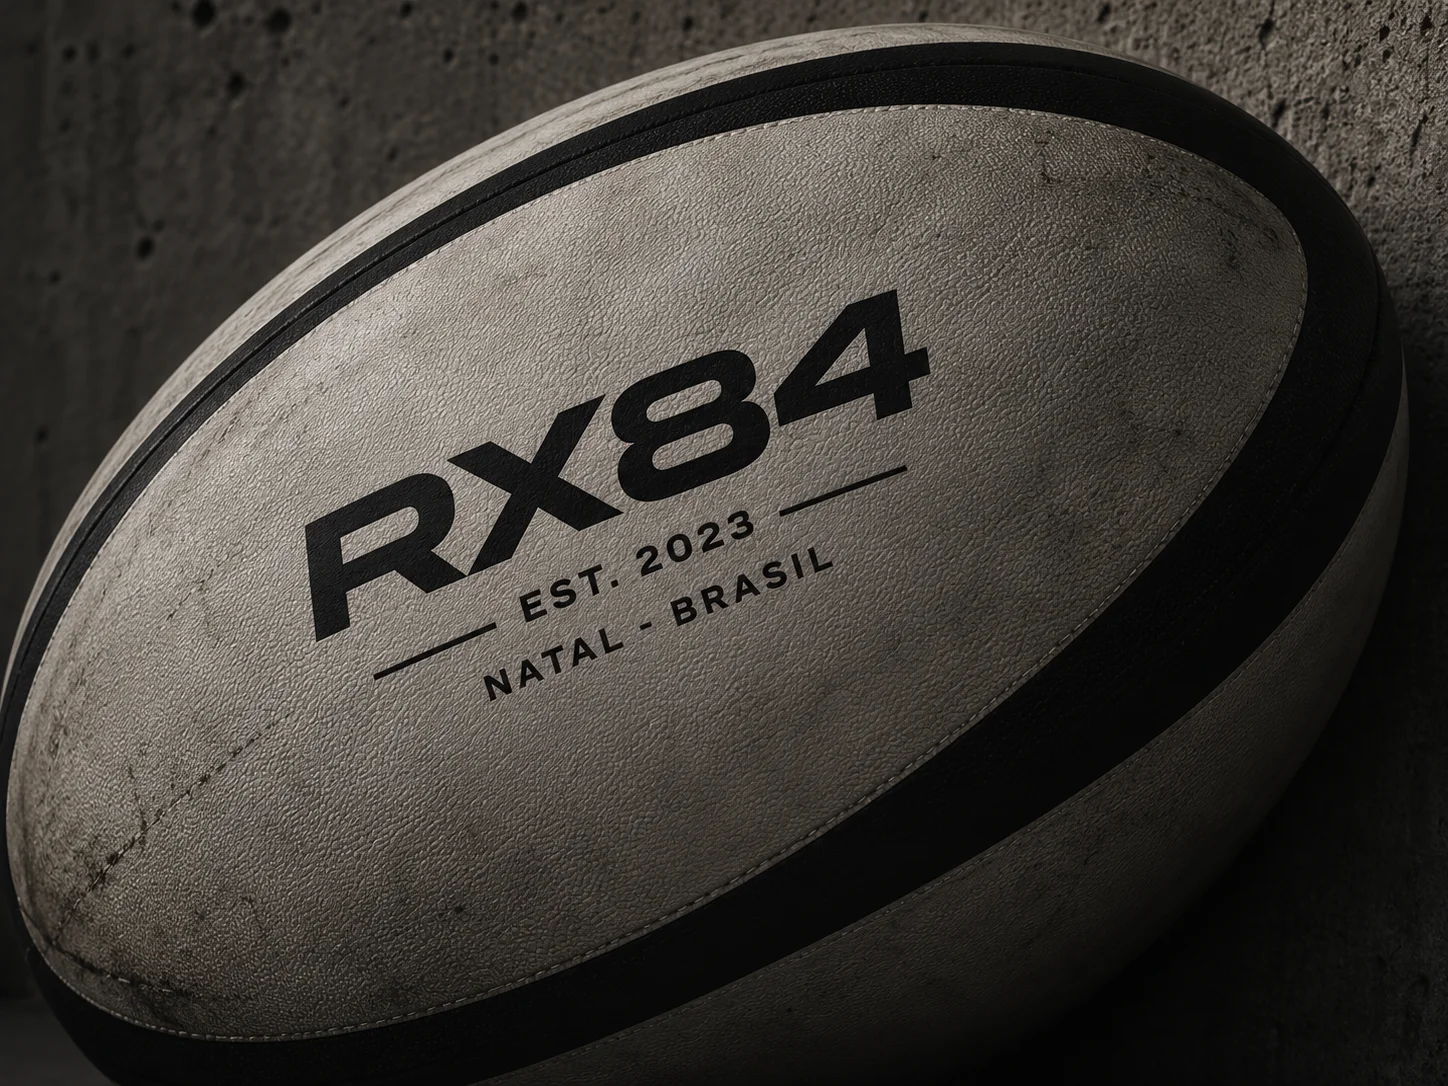
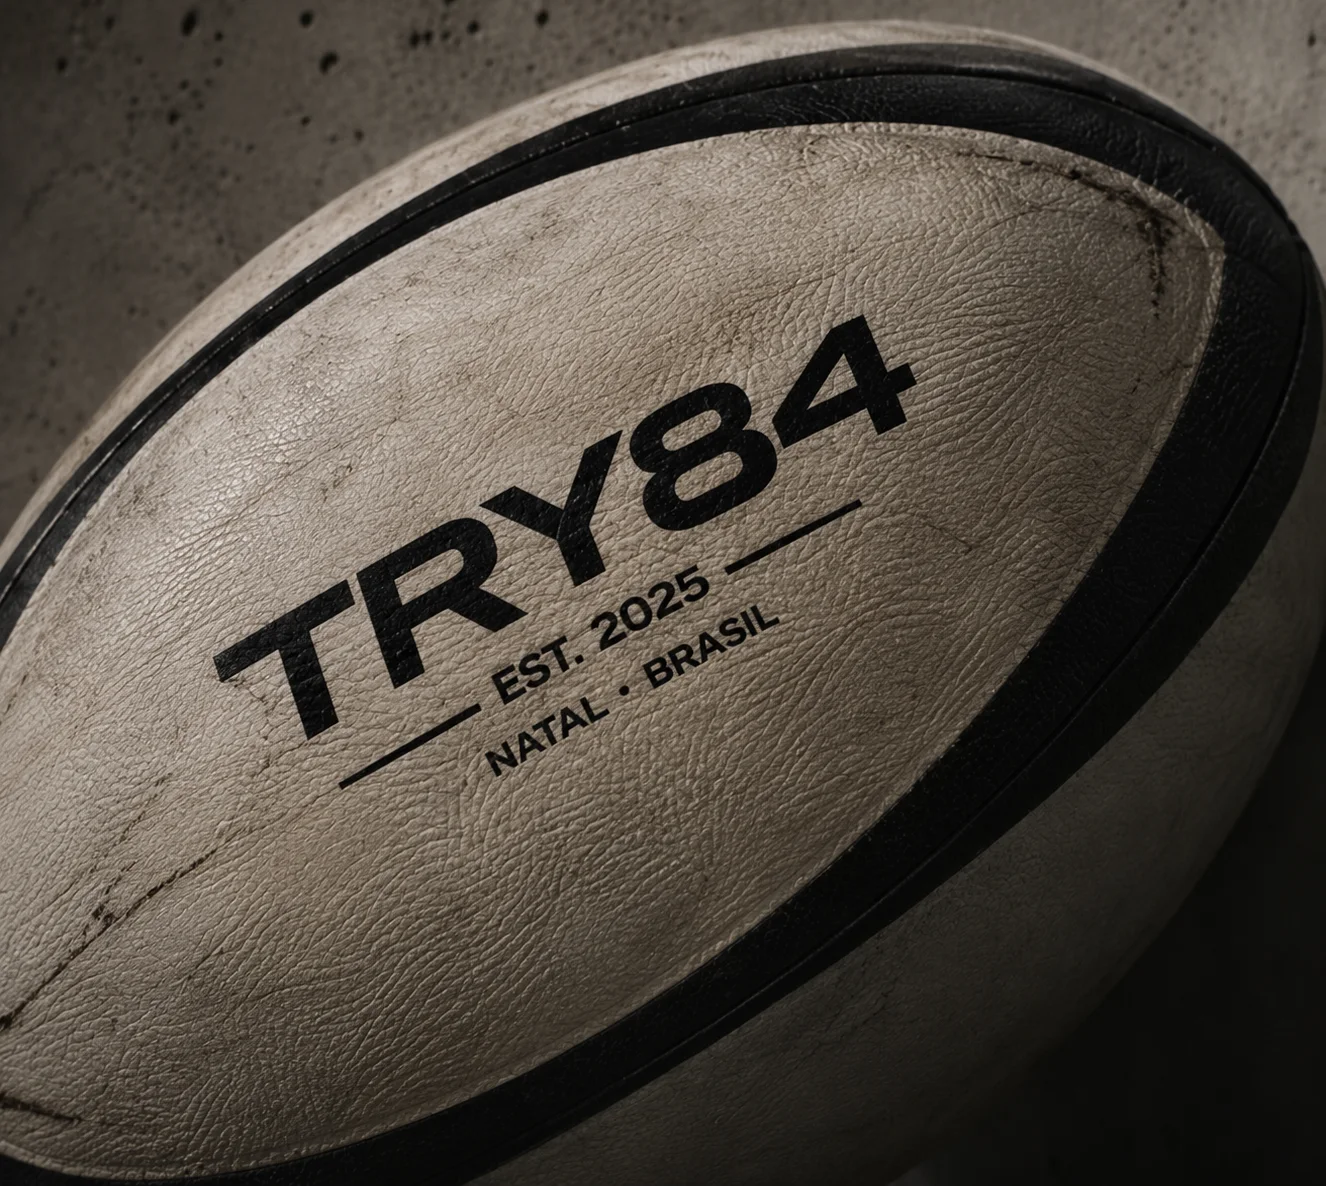
Abertura com a bola TRY84 correta (Est. 2025) e borda suave
Claude-Session: https://claude.ai/code/session_01LKrgKYLoJiHKPnK6efk2Pf

diff --git a/index.html b/index.html
@@ -48,7 +48,7 @@ body:after{content:'';position:fixed;inset:-50%;z-index:100;pointer-events:none;
 /* Abertura: a bola TRY84 encostada no concreto */
 .hero{position:relative;min-height:min(94svh,880px);display:flex;flex-direction:column;justify-content:flex-end;padding:120px var(--gut) 40px;overflow:hidden;isolation:isolate}
 .hero-bg{position:absolute;inset:0;z-index:-1}
-.hero-bg img{position:absolute;right:0;top:0;width:min(70%,1100px);height:100%;object-fit:cover;object-position:60% 50%;animation:zoomout 2.4s cubic-bezier(.2,.8,.1,1) both}
+.hero-bg img{position:absolute;right:0;top:0;width:min(70%,1100px);height:100%;object-fit:cover;object-position:60% 50%;-webkit-mask-image:linear-gradient(90deg,transparent,#000 40%);mask-image:linear-gradient(90deg,transparent,#000 40%);animation:zoomout 2.4s cubic-bezier(.2,.8,.1,1) both}
 .hero-bg:after{content:'';position:absolute;inset:0;background:linear-gradient(90deg,var(--black) 18%,rgba(11,11,11,.55) 48%,rgba(11,11,11,0) 70%),linear-gradient(0deg,var(--black),rgba(11,11,11,0) 32%)}
 @keyframes zoomout{from{transform:scale(1.12);opacity:0}}
 .hero-copy{display:grid;gap:26px;max-width:720px}
@@ -158,9 +158,9 @@ footer{padding-block:clamp(50px,7vw,90px) 26px;border-top:1px solid var(--line)}
 
 <main>
   <section class="hero" id="topo" aria-labelledby="titulo">
-    <div class="hero-bg" aria-hidden="true"><img src="assets/bola.webp" alt="" width="1448" height="1086"></div>
+    <div class="hero-bg" aria-hidden="true"><img src="assets/bola.webp" alt="" width="1326" height="1186"></div>
     <div class="hero-copy">
-      <p class="label">Rugby lifestyle · Est. 2026</p>
+      <p class="label">Rugby lifestyle · Est. 2025</p>
       <h1 class="wide" id="titulo"><span><i>Feita por</i></span><span><i>jogadores.</i></span></h1>
       <p class="hero-lead">Roupa em preto e branco para quem vive o rugby do treino ao terceiro tempo.</p>
       <div class="hero-actions">
@@ -216,7 +216,7 @@ footer{padding-block:clamp(50px,7vw,90px) 26px;border-top:1px solid var(--line)}
         </div>
         <img class="dive" id="dive" src="assets/mergulho-preto.png" alt="Silhueta de um jogador mergulhando para marcar um try" width="1000" height="518" loading="lazy">
       </div>
-      <div class="brand-foot label"><span>Est. 2026</span><span>Natal · Brasil</span><span>Forward together</span></div>
+      <div class="brand-foot label"><span>Est. 2025</span><span>Natal · Brasil</span><span>Forward together</span></div>
     </div>
   </section>
 
